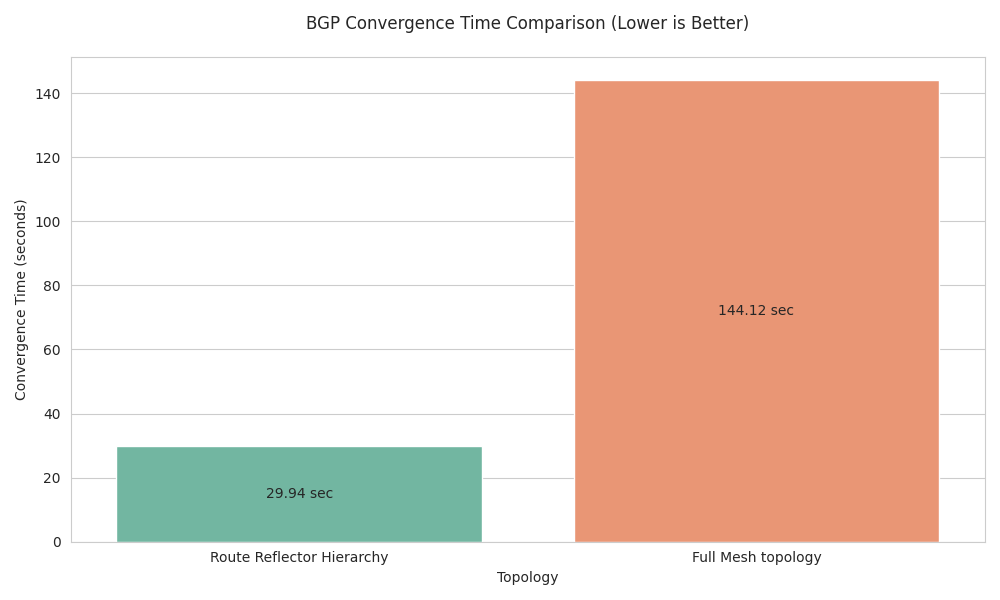
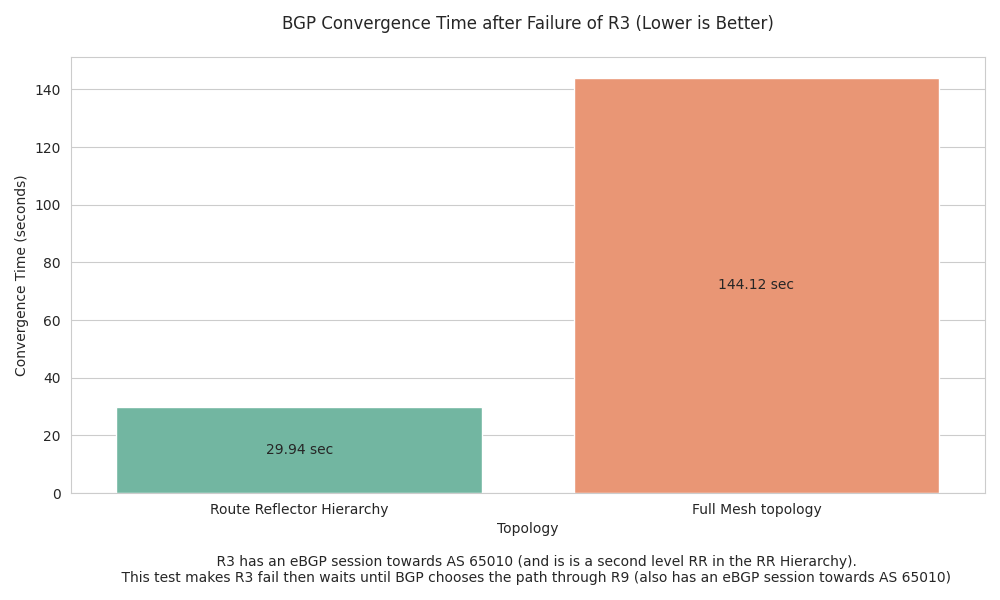
updated convergence graph

diff --git a/make_graphs.py b/make_graphs.py
@@ -58,7 +58,7 @@ def create_convergence_graph():
 
     ax = sns.barplot(x="Topology", y="Convergence Time (s)", data=data, palette='Set2', hue="Topology")
 
-    plt.title("BGP Convergence time after central router failure Comparison (Lower is Better)", pad=20)
+    plt.title("BGP Convergence Time after Failure of R3 (Lower is Better)", pad=20)
     plt.ylabel("Convergence Time (seconds)")
     plt.xlabel('''Topology
             
